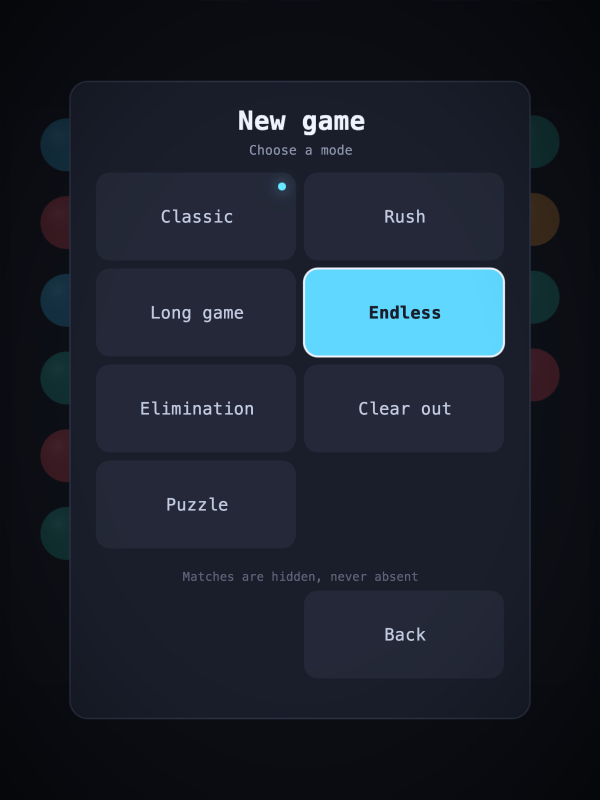
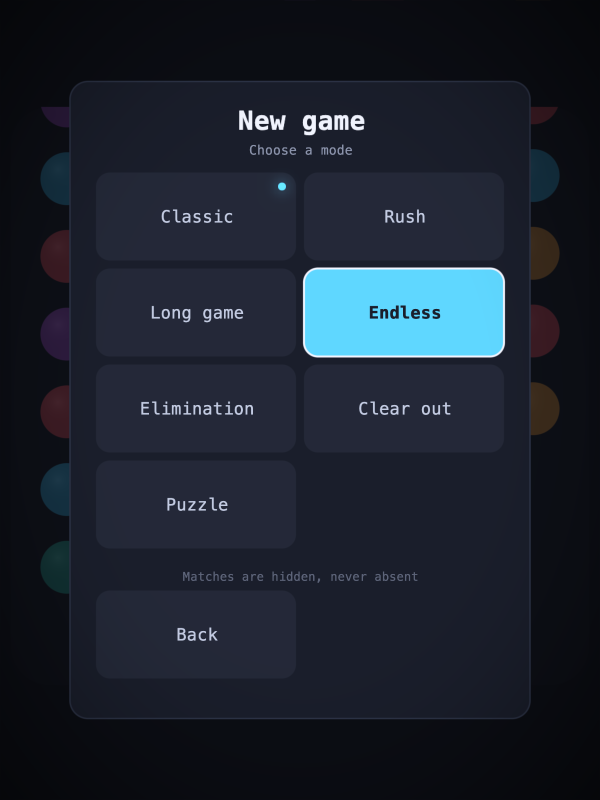
Back sits at the bottom left of a sub-page
Two corners of a menu panel are fixed rather than one: Back at the bottom
left, because back is a leftward thing everywhere else a person has used a
screen, and Controls at the bottom right. Reset to defaults moves to the
right of Back on the controls page, and the mode grid's Back takes the
left cell with the right one holding its place empty.

diff --git a/src/game.js b/src/game.js
@@ -818,9 +818,9 @@ export class Game {
   //
   // Two cursors: `menuIndex` is the row, `menuOption` the cell within it.
   //
-  // The bottom right of every page is the way out of it - Controls where there is a
-  // game to configure, Back inside a sub-page - so the button a player reaches for
-  // without looking is always in the same place.
+  // Two corners of the panel are fixed, so the button a player reaches for without
+  // looking is always in the same place: Back at the bottom left, since back is a
+  // leftward thing everywhere else, and Controls at the bottom right.
   menuRows() {
     switch (this.page) {
       case "title":
@@ -880,15 +880,15 @@ export class Game {
             })),
           },
           { id: "hint", kind: "hint" },
-          this.#buttons([null, { action: "back", label: "Back" }]),
+          this.#buttons([{ action: "back", label: "Back" }, null]),
         ]
       case "controls":
         return [
           ...this.#controlRows(),
           { id: "hint", kind: "hint" },
           this.#buttons([
-            { action: "resetBindings", label: "Reset to defaults" },
             { action: "back", label: "Back" },
+            { action: "resetBindings", label: "Reset to defaults" },
           ]),
         ]
       default:
